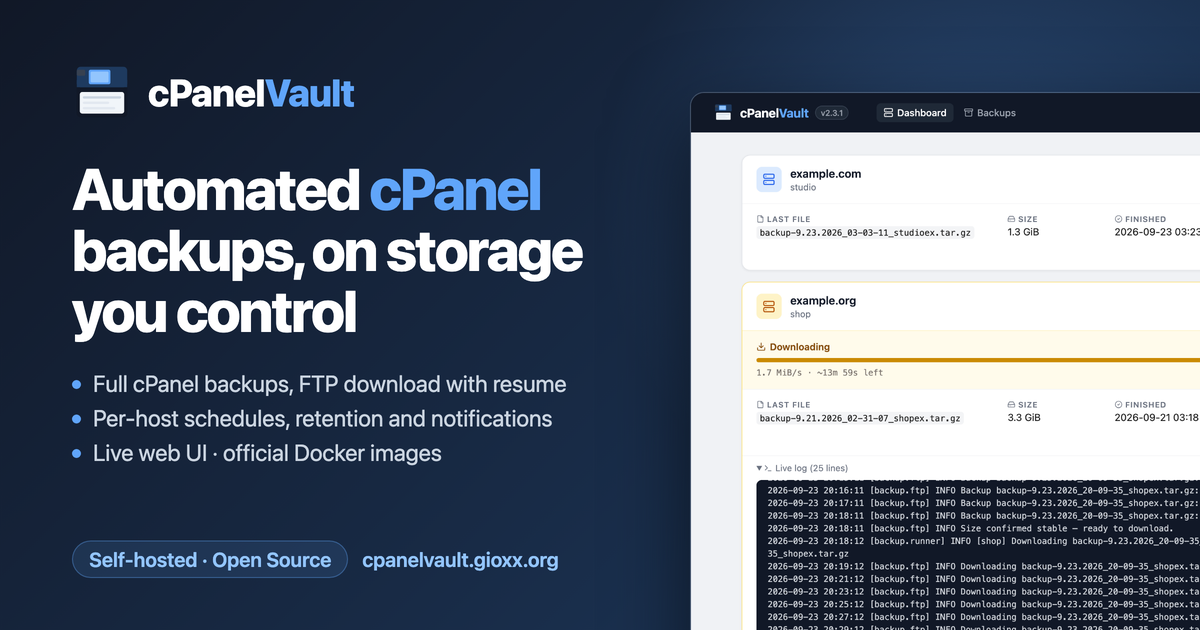
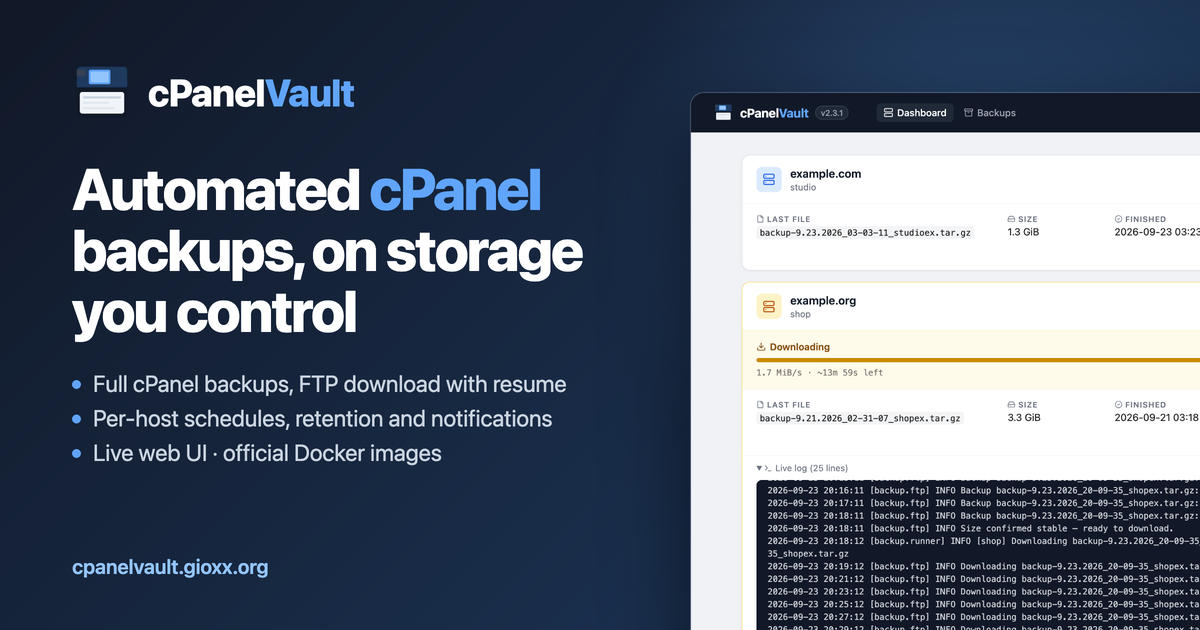
docs: drop the hero badge, smoother in-page navigation, back to top (#29)
- Remove the "v2.3.1 · Self-hosted · Docker · Open Source" hero badge
  and the matching pill on the social card.
- Anchors land exactly under the sticky nav: scroll-padding-top matched
  the 56px bar instead of 72px, which left a strip of the previous
  section above #install and the other targets.
- Highlight the menu item of the section in view.
- Fade cards, steps and screenshots in as they scroll into view.
- Add a back-to-top button (Lucide arrow-up) after 600px of scroll.
Motion is disabled under prefers-reduced-motion.

Changed region(s): [[0.0617, 0.8444, 0.4625, 0.9349]]

diff --git a/docs/index.html b/docs/index.html
@@ -47,7 +47,7 @@
       --mono: ui-monospace, "SF Mono", "Cascadia Code", Menlo, monospace;
     }
 
-    html { scroll-behavior: smooth; scroll-padding-top: 72px; }
+    html { scroll-behavior: smooth; scroll-padding-top: 56px; }
 
     body {
       font-family: system-ui, -apple-system, sans-serif;
@@ -78,6 +78,16 @@
     nav .nav-links { display: flex; gap: 1.5rem; }
     nav .nav-links a { color: #9ca3af; font-size: 0.9rem; transition: color 0.15s; }
     nav .nav-links a:hover { color: #fff; text-decoration: none; }
+    nav .nav-links a { position: relative; }
+    nav .nav-links a.active { color: #fff; }
+    nav .nav-links a.active::after {
+      content: "";
+      position: absolute;
+      left: 0; right: 0; bottom: -6px;
+      height: 2px;
+      border-radius: 2px;
+      background: #60a5fa;
+    }
 
     /* HERO */
     .hero {
@@ -86,19 +96,6 @@
       padding: 6rem 2rem 0;
       text-align: center;
       overflow: hidden;
-    }
-    .hero-badge {
-      display: inline-block;
-      background: rgba(96,165,250,0.15);
-      color: #93c5fd;
-      border: 1px solid rgba(96,165,250,0.3);
-      border-radius: 999px;
-      padding: 0.3em 1em;
-      font-size: 0.8rem;
-      font-weight: 600;
-      letter-spacing: 0.05em;
-      text-transform: uppercase;
-      margin-bottom: 1.5rem;
     }
     .hero h1 {
       font-size: clamp(2.2rem, 5vw, 3.5rem);
@@ -299,6 +296,7 @@
     .doc { min-width: 0; }
     .doc h3 { font-size: 1.35rem; font-weight: 800; letter-spacing: -0.01em; margin: 3rem 0 0.75rem; }
     .doc h3:first-child { margin-top: 0; }
+    .doc [id] { scroll-margin-top: 24px; }
     .doc h4 { font-size: 1rem; font-weight: 700; margin: 1.75rem 0 0.5rem; }
     .doc p, .doc li { font-size: 0.95rem; color: #374151; }
     .doc p { margin-bottom: 0.9rem; }
@@ -332,6 +330,55 @@
       font-size: 0.82rem;
     }
     footer a { color: #60a5fa; }
+
+    /* Scroll reveal: only when JS runs and motion is welcome */
+    .js .reveal {
+      opacity: 0;
+      transform: translateY(18px);
+      transition: opacity 0.5s ease, transform 0.5s ease;
+    }
+    .js .reveal.visible { opacity: 1; transform: none; }
+
+    /* Back to top */
+    .to-top {
+      position: fixed;
+      right: 1.25rem;
+      bottom: 1.25rem;
+      z-index: 90;
+      width: 44px;
+      height: 44px;
+      border: 1px solid rgba(255,255,255,0.15);
+      border-radius: 50%;
+      background: var(--dark);
+      color: #fff;
+      display: flex;
+      align-items: center;
+      justify-content: center;
+      cursor: pointer;
+      box-shadow: 0 6px 20px rgba(17,24,39,0.3);
+      opacity: 0;
+      visibility: hidden;
+      transform: translateY(10px);
+      transition: opacity 0.2s ease, transform 0.2s ease, visibility 0.2s, background 0.15s;
+    }
+    .to-top.show { opacity: 1; visibility: visible; transform: none; }
+    .to-top:hover { background: var(--accent); }
+    .to-top:focus-visible { outline: 2px solid #60a5fa; outline-offset: 3px; }
+    .to-top svg {
+      width: 20px;
+      height: 20px;
+      fill: none;
+      stroke: currentColor;
+      stroke-width: 2;
+      stroke-linecap: round;
+      stroke-linejoin: round;
+    }
+
+    @media (prefers-reduced-motion: reduce) {
+      html { scroll-behavior: auto; }
+      .js .reveal { opacity: 1; transform: none; transition: none; }
+      .to-top { transition: none; }
+    }
 
     @media (max-width: 900px) {
       .docs-layout { grid-template-columns: 1fr; }
@@ -373,7 +420,6 @@
 </nav>
 
 <div class="hero">
-  <div class="hero-badge">v2.3.1 · Self-hosted · Docker · Open Source</div>
   <h1>Automated <span>cPanel</span> backup<br>management</h1>
   <p>cPanelVault requests full backups of your cPanel accounts, downloads them over FTP with resume, and keeps a rotating local archive — with a live web UI, per-host scheduling and notifications.</p>
   <div class="hero-actions">
@@ -392,47 +438,47 @@
     <h2 class="section-title">Everything you need, nothing you don't</h2>
     <p class="section-sub">A focused tool that does one thing well: get full cPanel backups off the server and keep them safe on storage you control.</p>
     <div class="features-grid">
-      <div class="feature-card">
+      <div class="feature-card reveal">
         <div class="feature-icon"><svg viewBox="0 0 24 24" aria-hidden="true"><path d="M22 12h-2.48a2 2 0 0 0-1.93 1.46l-2.35 8.36a.25.25 0 0 1-.48 0L9.24 2.18a.25.25 0 0 0-.48 0l-2.35 8.36A2 2 0 0 1 4.49 12H2"/></svg></div>
         <h3>Live dashboard</h3>
         <p>See every host at a glance: current phase, download progress with speed and ETA, the live log of the run, next scheduled run and one-click manual backups.</p>
       </div>
-      <div class="feature-card">
+      <div class="feature-card reveal">
         <div class="feature-icon"><svg viewBox="0 0 24 24" aria-hidden="true"><rect width="20" height="5" x="2" y="3" rx="1"/><path d="M4 8v11a2 2 0 0 0 2 2h12a2 2 0 0 0 2-2V8"/><path d="M10 12h4"/></svg></div>
         <h3>Backups page</h3>
         <p>Browse the local archives of each host with size, download date, expiry and the run that will remove them, plus free space on the backup volume.</p>
       </div>
-      <div class="feature-card">
+      <div class="feature-card reveal">
         <div class="feature-icon"><svg viewBox="0 0 24 24" aria-hidden="true"><path d="M3 7V5a2 2 0 0 1 2-2h2"/><path d="M17 3h2a2 2 0 0 1 2 2v2"/><path d="M21 17v2a2 2 0 0 1-2 2h-2"/><path d="M7 21H5a2 2 0 0 1-2-2v-2"/><circle cx="12" cy="12" r="3"/><path d="m16 16-1.9-1.9"/></svg></div>
         <h3>Stability check</h3>
         <p>Polls the FTP until the archive stops growing across several checks before downloading — no partial files, no placeholders.</p>
       </div>
-      <div class="feature-card">
+      <div class="feature-card reveal">
         <div class="feature-icon"><svg viewBox="0 0 24 24" aria-hidden="true"><path d="M20 13c0 5-3.5 7.5-7.66 8.95a1 1 0 0 1-.67-.01C7.5 20.5 4 18 4 13V6a1 1 0 0 1 1-1c2 0 4.5-1.2 6.24-2.72a1.17 1.17 0 0 1 1.52 0C14.51 3.81 17 5 19 5a1 1 0 0 1 1 1z"/><path d="m9 12 2 2 4-4"/></svg></div>
         <h3>Resilient by design</h3>
         <p>Resumable downloads, socket timeouts, a free-space check before each download, and automatic retries for backup requests and remote deletes.</p>
       </div>
-      <div class="feature-card">
+      <div class="feature-card reveal">
         <div class="feature-icon"><svg viewBox="0 0 24 24" aria-hidden="true"><rect width="18" height="11" x="3" y="11" rx="2" ry="2"/><path d="M7 11V7a5 5 0 0 1 10 0v4"/></svg></div>
         <h3>Safe concurrency</h3>
         <p>A per-account lock stops the scheduler, the web UI and the CLI from backing up the same cPanel account (same host name and username) twice at the same time.</p>
       </div>
-      <div class="feature-card">
+      <div class="feature-card reveal">
         <div class="feature-icon"><svg viewBox="0 0 24 24" aria-hidden="true"><path d="M3 12a9 9 0 1 0 9-9 9.75 9.75 0 0 0-6.74 2.74L3 8"/><path d="M3 3v5h5"/><path d="M12 7v5l4 2"/></svg></div>
         <h3>Retention management</h3>
         <p>Archives older than a per-host number of days are removed once each run has downloaded its new archive, so storage never grows unbounded.</p>
       </div>
-      <div class="feature-card">
+      <div class="feature-card reveal">
         <div class="feature-icon"><svg viewBox="0 0 24 24" aria-hidden="true"><rect width="20" height="8" x="2" y="2" rx="2" ry="2"/><rect width="20" height="8" x="2" y="14" rx="2" ry="2"/><line x1="6" x2="6.01" y1="6" y2="6"/><line x1="6" x2="6.01" y1="18" y2="18"/></svg></div>
         <h3>Multi-host</h3>
         <p>Back up any number of cPanel accounts from one instance, each with its own cron schedule, retention and credentials.</p>
       </div>
-      <div class="feature-card">
+      <div class="feature-card reveal">
         <div class="feature-icon"><svg viewBox="0 0 24 24" aria-hidden="true"><path d="M10.268 21a2 2 0 0 0 3.464 0"/><path d="M3.262 15.326A1 1 0 0 0 4 17h16a1 1 0 0 0 .74-1.673C19.41 13.956 18 12.499 18 8A6 6 0 0 0 6 8c0 4.499-1.411 5.956-2.738 7.326"/></svg></div>
         <h3>Notifications</h3>
         <p>Results with the run log via Telegram, SMTP or Resend — enable one channel or all of them.</p>
       </div>
-      <div class="feature-card">
+      <div class="feature-card reveal">
         <div class="feature-icon"><svg viewBox="0 0 24 24" aria-hidden="true"><path d="M22 7.7c0-.6-.4-1.2-.8-1.5l-6.3-3.9a1.72 1.72 0 0 0-1.7 0l-10.3 6c-.5.2-.9.8-.9 1.4v6.6c0 .5.4 1.2.8 1.5l6.3 3.9a1.72 1.72 0 0 0 1.7 0l10.3-6c.5-.3.9-1 .9-1.5Z"/><path d="M10 21.9V14L2.1 9.1"/><path d="m10 14 11.9-6.9"/><path d="M14 19.8v-8.1"/><path d="M18 17.5V9.4"/></svg></div>
         <h3>Official Docker images</h3>
         <p>Multi-arch images (<code>amd64</code>, <code>arm64</code>) on Docker Hub and GHCR, with a healthcheck and volumes for backups and state.</p>
@@ -447,12 +493,12 @@
     <h2 class="section-title">See what's happening, while it happens</h2>
     <p class="section-sub">Every run is visible from the browser: no need to tail container logs to know where a backup is.</p>
 
-    <div class="shot">
+    <div class="shot reveal">
       <img src="img/dashboard.webp" width="2560" height="2360" loading="lazy" alt="Dashboard with three hosts: two successful, one downloading with the live log expanded">
     </div>
     <p class="shot-caption"><strong>Dashboard.</strong> Status, last archive, duration, schedule and next run for each host. A running backup shows its phase (checking FTP, waiting for cPanel, stability check, downloading, retention), progress with speed and ETA, and the live log.</p>
 
-    <div class="shots-grid">
+    <div class="shots-grid reveal">
       <div>
         <div class="shot shot-scroll">
           <img src="img/backups.webp" width="2560" height="4400" loading="lazy" alt="Backups page listing local archives per host with size, download date, expiry and removal date">
@@ -475,35 +521,35 @@
     <h2 class="section-title">The full backup lifecycle, unattended</h2>
     <p class="section-sub">At the scheduled time (or when you click <em>Run now</em>) cPanelVault runs these steps for each host.</p>
     <div class="steps">
-      <div class="step">
+      <div class="step reveal">
         <div class="step-num">1</div>
         <div class="step-body">
           <h3>Check the FTP server</h3>
           <p>If a backup from a previous session is still on the server, it's downloaded and removed first, so nothing is lost or left behind.</p>
         </div>
       </div>
-      <div class="step">
+      <div class="step reveal">
         <div class="step-num">2</div>
         <div class="step-body">
           <h3>Request a full backup</h3>
           <p>cPanelVault calls the cPanel UAPI (<code>fullbackup_to_homedir</code>). On connectivity errors the request is retried after 10 and 30 minutes.</p>
         </div>
       </div>
-      <div class="step">
+      <div class="step reveal">
         <div class="step-num">3</div>
         <div class="step-body">
           <h3>Wait for the archive to be ready</h3>
           <p>It polls the FTP and waits until the file size is identical across several consecutive checks — proof that cPanel has finished writing.</p>
         </div>
       </div>
-      <div class="step">
+      <div class="step reveal">
         <div class="step-num">4</div>
         <div class="step-body">
           <h3>Download &amp; clean up the server</h3>
           <p>After checking free disk space, the archive is downloaded with automatic resume, then deleted from the FTP server. The remote copy is removed only after the local download succeeds.</p>
         </div>
       </div>
-      <div class="step">
+      <div class="step reveal">
         <div class="step-num">5</div>
         <div class="step-body">
           <h3>Apply retention &amp; notify</h3>
@@ -526,7 +572,7 @@
       <div class="image-pill">tags: <span>latest</span> · <span>X.Y.Z</span> · <span>dev</span></div>
     </div>
 
-    <div class="install-grid">
+    <div class="install-grid reveal">
       <div>
         <h3>Docker Compose</h3>
 <pre><span class="comment"># Get the compose file and a sample config</span>
@@ -756,6 +802,58 @@ curl http://localhost:8080/api/status</pre>
     <a href="third-party-notices.txt">Third-party notices</a>
   </p>
 </footer>
+
+<button class="to-top" type="button" aria-label="Back to top" title="Back to top">
+  <svg viewBox="0 0 24 24" aria-hidden="true"><path d="m5 12 7-7 7 7"/><path d="M12 19V5"/></svg>
+</button>
+
+<script>
+  (function () {
+    var reduce = window.matchMedia("(prefers-reduced-motion: reduce)").matches;
+    document.documentElement.classList.add("js");
+
+    // Reveal cards, steps and screenshots as they scroll into view.
+    var items = document.querySelectorAll(".reveal");
+    if (reduce || !("IntersectionObserver" in window)) {
+      items.forEach(function (el) { el.classList.add("visible"); });
+    } else {
+      var io = new IntersectionObserver(function (entries) {
+        entries.forEach(function (e) {
+          if (e.isIntersecting) { e.target.classList.add("visible"); io.unobserve(e.target); }
+        });
+      }, { rootMargin: "0px 0px -8% 0px" });
+      items.forEach(function (el, i) {
+        // Stagger siblings in the same grid a little.
+        el.style.transitionDelay = (Array.prototype.indexOf.call(el.parentNode.children, el) % 3) * 80 + "ms";
+        io.observe(el);
+      });
+    }
+
+    // Highlight the menu item of the section in view.
+    var links = document.querySelectorAll('nav .nav-links a[href^="#"]');
+    var byId = {};
+    links.forEach(function (a) { byId[a.getAttribute("href").slice(1)] = a; });
+    var sections = Object.keys(byId).map(function (id) { return document.getElementById(id); }).filter(Boolean);
+    function onScroll() {
+      var y = window.scrollY + 56 + 1;
+      var current = null;
+      sections.forEach(function (sec) { if (sec.offsetTop <= y) current = sec.id; });
+      if (window.innerHeight + window.scrollY >= document.documentElement.scrollHeight - 2) {
+        current = sections[sections.length - 1].id;
+      }
+      links.forEach(function (a) { a.classList.toggle("active", byId[current] === a); });
+      toTop.classList.toggle("show", window.scrollY > 600);
+    }
+
+    var toTop = document.querySelector(".to-top");
+    toTop.addEventListener("click", function () {
+      window.scrollTo({ top: 0, behavior: reduce ? "auto" : "smooth" });
+    });
+
+    window.addEventListener("scroll", onScroll, { passive: true });
+    onScroll();
+  })();
+</script>
 
 </body>
 </html>
